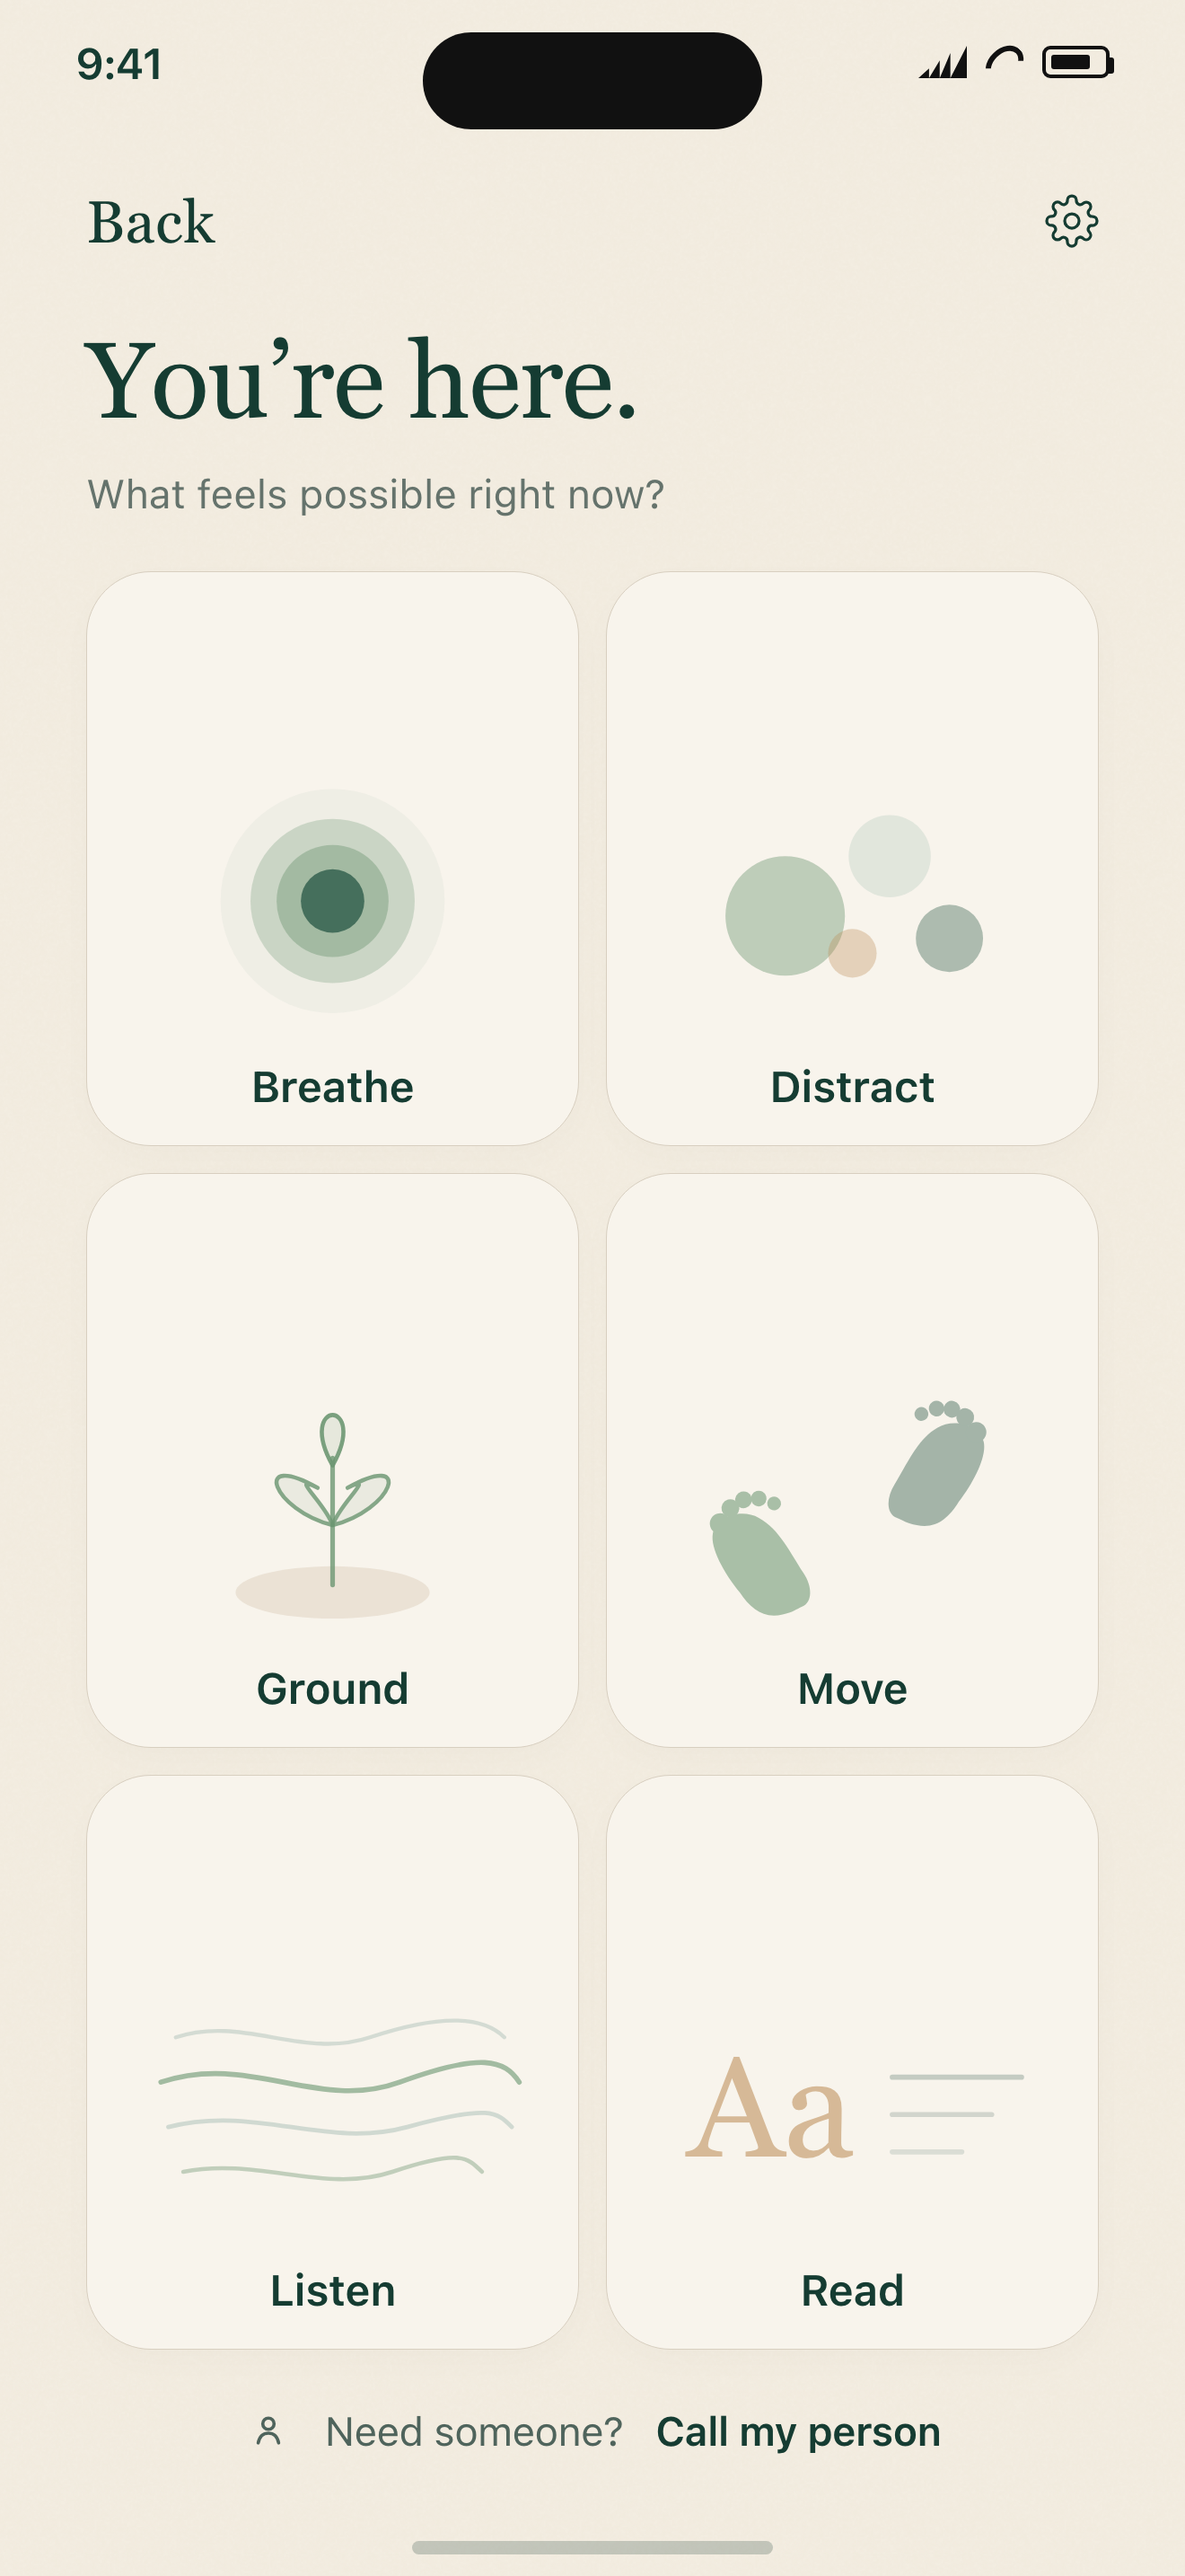
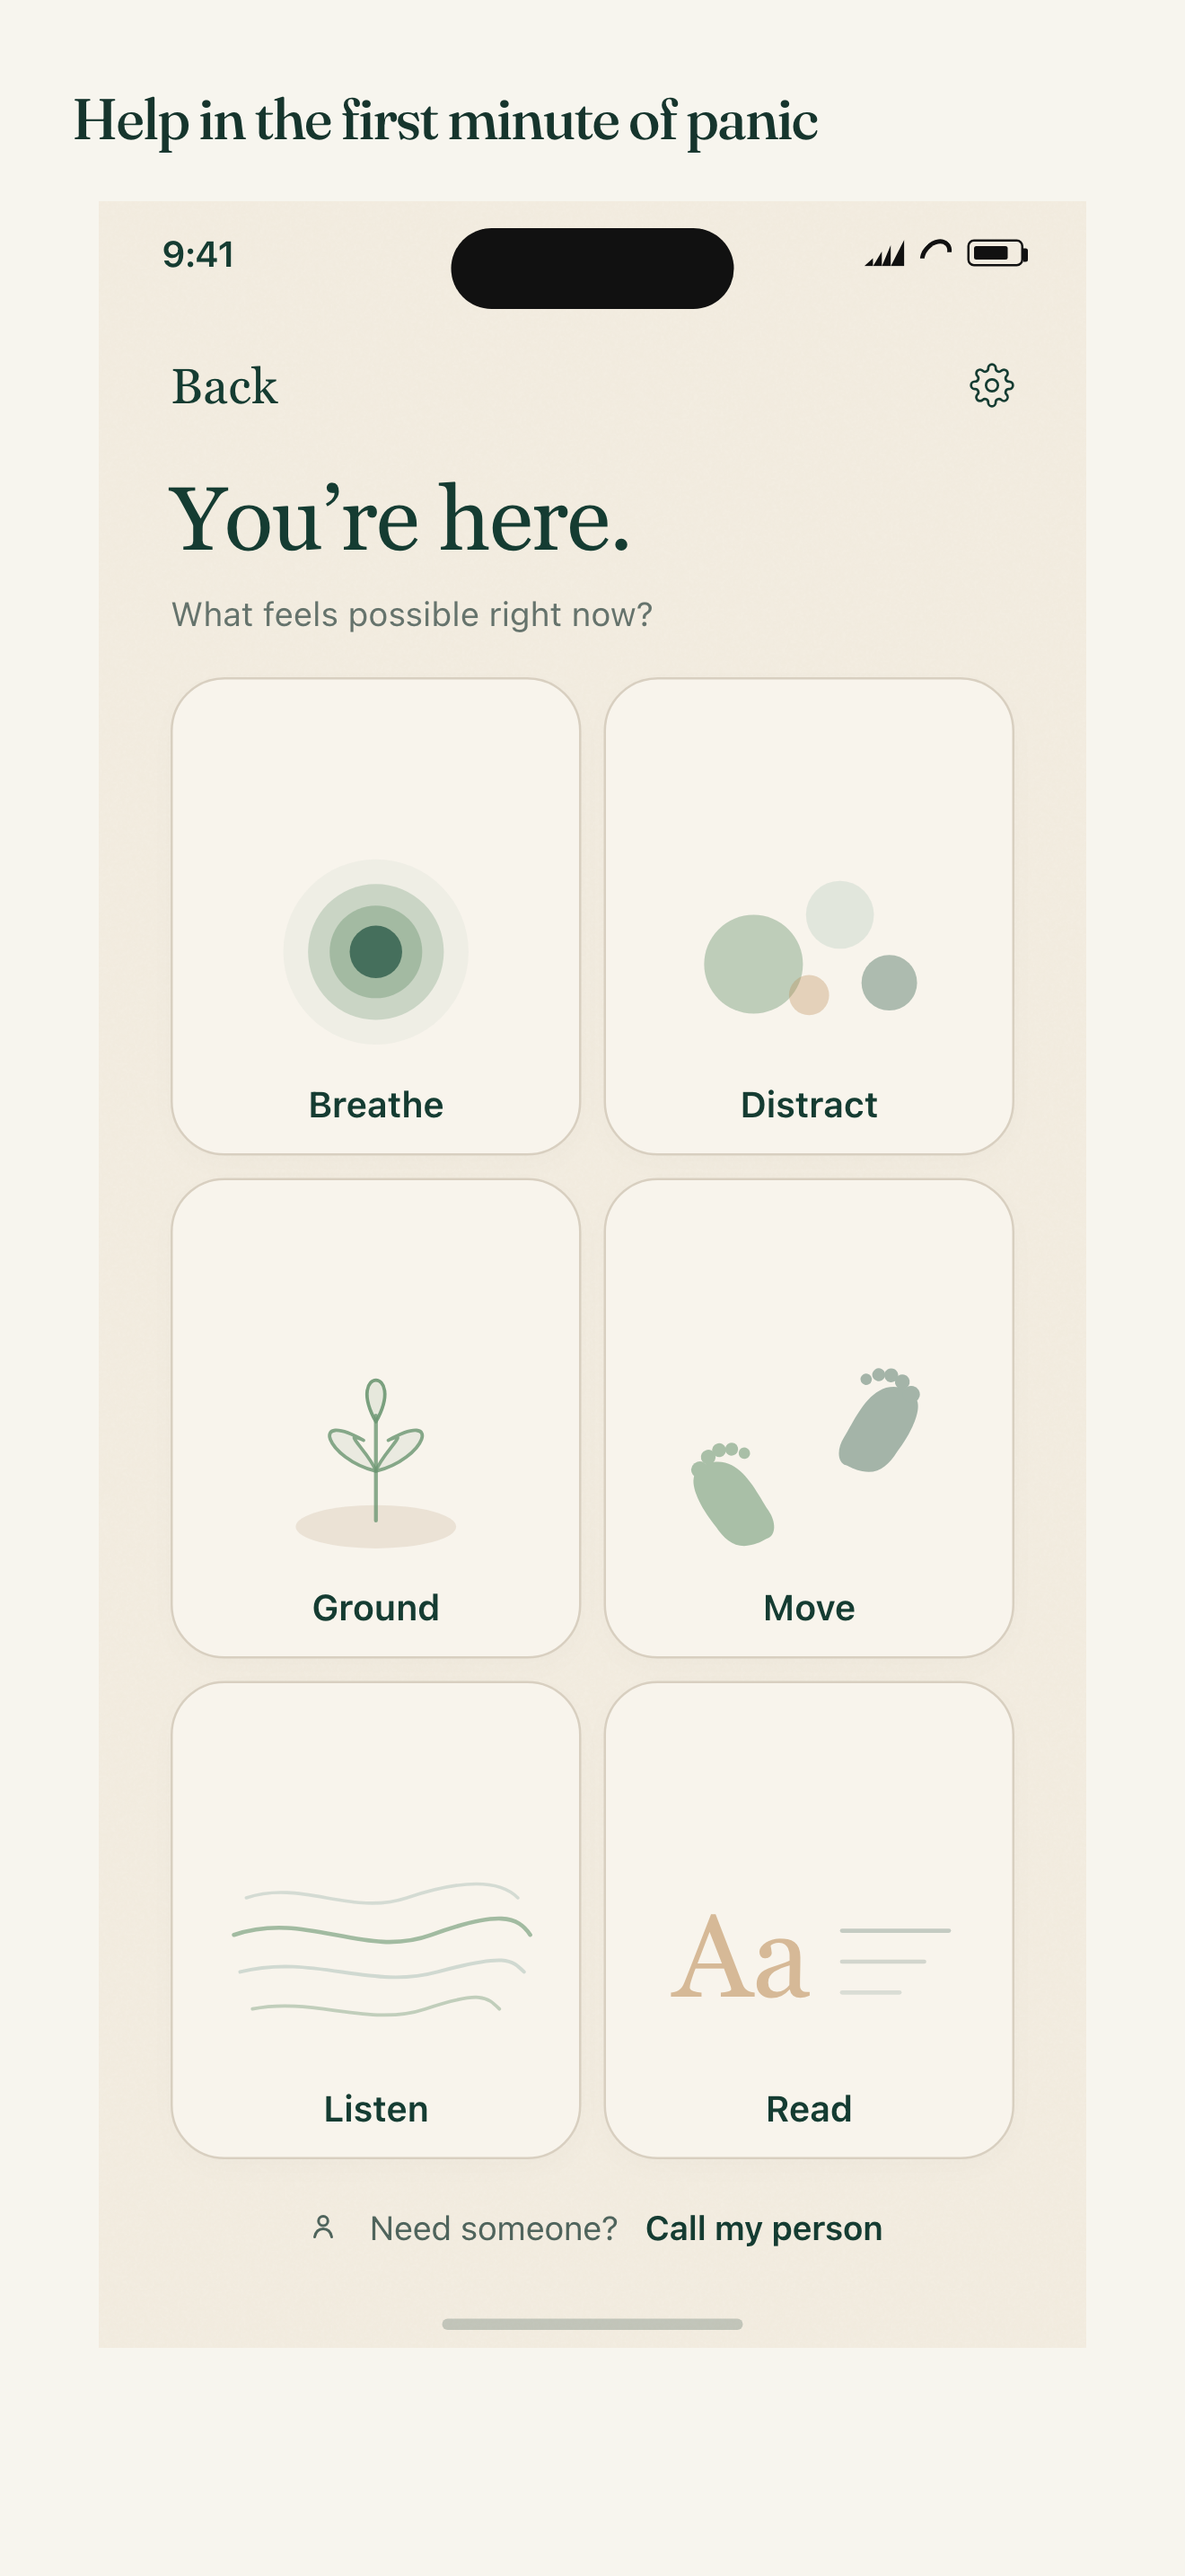
Prepare the App Store listing pack without needing Connect access.
Name, subtitle, keywords and promotional text are paste-ready, screenshots now carry paper captions, and localization drafts wait for native review. Uploading still needs someone with App Store Connect.

diff --git a/store/ios/screenshots/compose.html b/store/ios/screenshots/compose.html
@@ -3,6 +3,9 @@
 <head>
   <meta charset="utf-8" />
   <title>Back iOS screenshots</title>
+  <link rel="preconnect" href="https://fonts.googleapis.com" />
+  <link rel="preconnect" href="https://fonts.gstatic.com" crossorigin />
+  <link href="https://fonts.googleapis.com/css2?family=Fraunces:opsz,wght@9..144,500;9..144,600&display=swap" rel="stylesheet" />
   <style>
     :root {
       --ivory: #F3EDE1;
@@ -23,20 +26,49 @@
     * { box-sizing: border-box; }
     html, body {
       margin: 0;
-      width: 440px;
-      height: 956px;
+      width: 1320px;
+      height: 2868px;
       overflow: hidden;
-      background: var(--ivory);
+      background: #F7F5EE;
       color: var(--ink);
       font-family: var(--sans);
       -webkit-font-smoothing: antialiased;
     }
-    .phone {
+    .frame {
+      width: 1320px;
+      height: 2868px;
+      padding: 96px 80px 72px;
+      display: flex;
+      flex-direction: column;
+      background: #F7F5EE;
+    }
+    .store-caption {
+      margin: 0 0 56px;
+      max-width: 1120px;
+      color: #16352D;
+      font-family: "Fraunces", Georgia, "Times New Roman", serif;
+      font-size: 64px;
+      font-weight: 500;
+      line-height: 1.12;
+      letter-spacing: -0.03em;
+    }
+    .phone-wrap {
       position: relative;
+      width: 1100px;
+      height: 2390px;
+      margin: 0 auto;
+    }
+    .phone {
+      position: absolute;
+      top: 0;
+      left: 50%;
       width: 440px;
       height: 956px;
+      margin-left: -220px;
       background: var(--ivory);
       overflow: hidden;
+      transform: scale(2.5);
+      transform-origin: top center;
     }
     .grain {
       pointer-events: none;
@@ -392,6 +424,9 @@
   </symbol>
 </svg>
 
+<div class="frame">
+  <p class="store-caption" id="caption">Help in the first minute of panic</p>
+  <div class="phone-wrap">
 <div class="phone" id="phone">
   <div class="grain"></div>
   <div class="island"></div>
@@ -603,11 +638,18 @@ contact your local emergency service.</p>
 
   <div class="home-ind"></div>
 </div>
+  </div>
+</div>
 <script>
-  const id = new URLSearchParams(location.search).get("s") || "home";
+  const params = new URLSearchParams(location.search);
+  const id = params.get("s") || "home";
+  const caption = params.get("caption");
   document.querySelectorAll(".screen").forEach((el) => {
     el.classList.toggle("hidden", el.getAttribute("data-s") !== id);
   });
+  if (caption) {
+    document.getElementById("caption").textContent = caption;
+  }
 </script>
 </body>
 </html>

diff --git a/store/ios/listing.md b/store/ios/listing.md
@@ -1,4 +1,4 @@
-# App Store Connect pack — Back: You're Here
+# App Store Connect pack — Back: Panic Attack Help
 
 Upload these files in App Store Connect. This file is the listing copy and the fill-in checklist.
 
@@ -6,7 +6,7 @@ Companion how-to (zip, where to paste, what they still click): **`store/ios/SHAR
 
 **Copyright:** 2026 Tatjana Fedorkova  
 **Bundle ID:** `app.back.selfhelp`  
-**Version:** 1.0.0  
+**Version:** 1.0.1  
 **SKU suggestion:** `back-ios-1` (set once; cannot invent Apple IDs)  
 **Branch for this pack:** `cursor/active-session-foundation`
 
@@ -20,16 +20,17 @@ Companion how-to (zip, where to paste, what they still click): **`store/ios/SHAR
 | --- | --- | --- | --- |
 | App icon (master) | `store/ios/icon-1024.png` | 1024×1024, RGB, opaque PNG, no rounded corners, no alpha, no pre-rounded mask | **Present.** Approved tactile forest disc. `sips`: 1024×1024, RGB, `hasAlpha: no`. Same bytes as `assets/images/icon.png`. |
 | App icon (Expo slot) | `assets/images/icon.png` | Same file as master | Present (identical hash). |
-| Screenshots | `store/ios/screenshots/` | iPhone **6.9"** portrait **1320×2868** | **Present.** Six PNGs, all 1320×2868 RGB opaque. Full-bleed app UI (status bar + Dynamic Island as the screen, not a 3D phone bezel). No lorem. |
+| Screenshots | `store/ios/screenshots/` | iPhone **6.9"** portrait **1320×2868** | **Present.** Seven PNGs, all 1320×2868. Paper frame, serif caption above the app UI. No lorem. No competitor names on captions. |
 
 Screenshots (upload in this order, 6.9" well — not 6.5"):
 
-1. `01-home.png` — Home
-2. `02-breathe.png` — Breathe
-3. `03-ground.png` — Ground
-4. `04-listen.png` — Listen
-5. `05-distract.png` — Distract
-6. `06-extra-support.png` — Extra support
+1. `01-home.png` — Help in the first minute of panic
+2. `02-breathe.png` — Breathe gently. Or pick another way
+3. `01-home-offline.png` — No account. Works offline. Nothing leaves your phone
+4. `04-listen.png` — Rain, ocean, brown noise for night panic
+5. `03-ground.png` — Ground yourself in the room you are in
+6. `06-extra-support.png` — Your person, one tap away
+7. `05-distract.png` — Calm games with no scores
 
 No iPad, Watch, or preview video.
 
@@ -66,12 +67,14 @@ No product email is in the repo. Support is GitHub Issues (stated on the support
 
 ## Listing copy (English, US)
 
-### Name
-Back: You're Here
-
-### Subtitle (25 / 30 characters)
+### Name (23 / 30)
 ```
-Quiet help for one minute
+Back: Panic Attack Help
+```
+
+### Subtitle (28 / 30)
+```
+Anxiety SOS & calm breathing
 ```
 
 ### Description
@@ -96,21 +99,21 @@ Private. No account. Nothing you save is sent to Back. Your “my person” cont
 Back is not therapy, not a diagnosis, and not an emergency service. It is not a medical device.
 ```
 
-### Keywords (100 / 100 characters)
+### Keywords (96 / 100 bytes)
 ```
-anxiety,panic,breathe,grounding,overload,stress,self-help,quiet,breathing,ground,relief,minute,tools
-```
-
-No competitor names. No “Calm”, “Headspace”, or similar.
-
-### Promotional text (optional, 57 / 170)
-```
-Six quiet tools for the next minute. Private. No account.
+relief,grounding,stress,overwhelm,sensory,overload,breathe,night,noise,offline,distract,selfcare
 ```
 
-### What's New
+**No competitor names in any metadata field.** Do not use Calm, Headspace, Insight Timer, or similar.
+
+### Promotional text (optional, 90 / 170)
 ```
-First release.
+Panic at night or on the metro? Back opens in one tap, needs no account and works offline.
+```
+
+### What's New (80 / 4000)
+```
+Share Back now includes a link. Breathe and Listen are always free. Small fixes.
 ```
 
 ---
@@ -199,9 +202,9 @@ You must complete this in App Store Connect. A banner about trader status (from 
 
 Submit stays grey until a human does these in the UI:
 
-1. Create the iOS app record if needed (bundle `app.back.selfhelp`, listing name **Back: You're Here**).
+1. Create the iOS app record if needed (bundle `app.back.selfhelp`, listing name **Back: Panic Attack Help**).
 2. Upload `store/ios/icon-1024.png` if the build’s AppIcon is not already this file (EAS/Expo should pick `assets/images/icon.png`).
-3. Upload the six 1320×2868 screenshots into **6.9" Display** (not 6.5").
+3. Upload the seven 1320×2868 screenshots into **6.9" Display** (not 6.5"), in the order listed above.
 4. Paste subtitle, description, keywords, What’s New.
 5. Set Support URL and Privacy Policy URL.
 6. Category: Health & Fitness.
@@ -242,6 +245,10 @@ Extra support disclaimer is in the app and in the listing. Keep it.
 
 ## Character counts
 
-- Subtitle: 25 / 30
-- Keywords: 100 / 100
-- Promotional text: 57 / 170
+- Name: 23 / 30
+- Subtitle: 28 / 30
+- Keywords: 96 / 100 bytes
+- Promotional text: 90 / 170
+- What's New: 80 / 4000
+
+Localized name/subtitle drafts: `store/ios/localizations.md`. Keyword fields there stay empty until Maria fills them.

diff --git a/store/ios/localizations.md b/store/ios/localizations.md
@@ -1,0 +1,34 @@
+# App Store localizations — drafts
+
+English metadata lives in `listing.md`. The rows below are drafts for App Store Connect localizations.
+
+Every name and subtitle is **needs native review**.  
+Every keyword field is empty on purpose: `TODO(Maria): keywords for this locale, 100 bytes max, no competitor names`.
+
+Do not invent review quotes, ratings, or user counts. Keep the English description’s disclaimers if you localize the description later.
+
+| Language | Name | Subtitle | Keywords |
+| --- | --- | --- | --- |
+| de | Back: Hilfe bei Panikattacken | Angst-SOS & ruhiges Atmen | TODO(Maria) |
+| es | Back: Ayuda ataque de pánico | SOS ansiedad y respiración | TODO(Maria) |
+| pt-BR | Back: Ajuda na crise de pânico | Ansiedade SOS e respiração | TODO(Maria) |
+| fr | Back: Aide crise de panique | Anxiété SOS et respiration | TODO(Maria) |
+| it | Back: Aiuto attacchi di panico | Ansia SOS e respiro calmo | TODO(Maria) |
+| nl | Back: Hulp bij paniekaanval | Angst SOS & rustig ademen | TODO(Maria) |
+| pl | Back: Pomoc przy ataku paniki | Lęk SOS i spokojny oddech | TODO(Maria) |
+| ru | Back: Помощь при панике | Паническая атака, тревога SOS | TODO(Maria) |
+| tr | Back: Panik Atak Yardımı | Kaygı SOS ve sakin nefes | TODO(Maria) |
+
+Name and subtitle lengths (characters / 30):
+
+| Language | Name | Subtitle |
+| --- | --- | --- |
+| de | 29 | 25 |
+| es | 28 | 26 |
+| pt-BR | 30 | 26 |
+| fr | 27 | 26 |
+| it | 30 | 25 |
+| nl | 27 | 25 |
+| pl | 29 | 25 |
+| ru | 23 | 29 |
+| tr | 24 | 24 |
